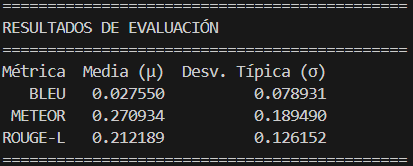
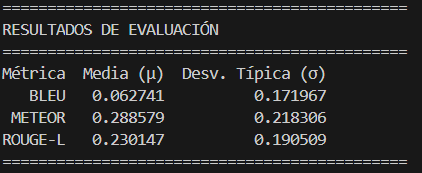
Pruebas con prompt mejorado

diff --git a/app.py b/app.py
@@ -321,11 +321,12 @@ def build_rag_prompt(query, context_chunks):
     Tu objetivo es responder preguntas de alumnos de forma precisa y veraz.
 
     REGLAS CRÍTICAS:
-    1. Cada fragmento de contexto comienza con su ubicación jerárquica entre corchetes [Sección > Subsección]. 
+    1. Cada fragmento de contexto recuperado de las Guías Docentes comienza con su ubicación jerárquica entre corchetes [Sección > Subsección]. 
     2. Usa esa jerarquía para distinguir entre diferentes tipos de evaluación (ej. Progresiva vs Global).
-    3. Si la información no está en el contexto, di claramente que no dispones de ese dato en la guía.
+    3. En la respuesta, no nombres la ubicación jerárquica, solo responde a la pregunta basándote en el contenido.
     4. Responde de forma directa y concisa.
-
+    5. En la respuesta, no incluyas información que no esté explícitamente presente en el contexto proporcionado.
+  
     CONTEXTO RECUPERADO:
     ---
     {context}

diff --git a/pruebas.py b/pruebas.py
@@ -52,7 +52,7 @@ def run_quality_test(dataset_path):
         prompt = build_rag_prompt(pregunta, chunks)
 
         if i > 0:
-            time.sleep(3)  # Pequeña pausa para evitar saturar la API
+            time.sleep(5)  # Pequeña pausa para evitar saturar la API
 
         respuesta_ia = llm_engine.generate(prompt)
         
